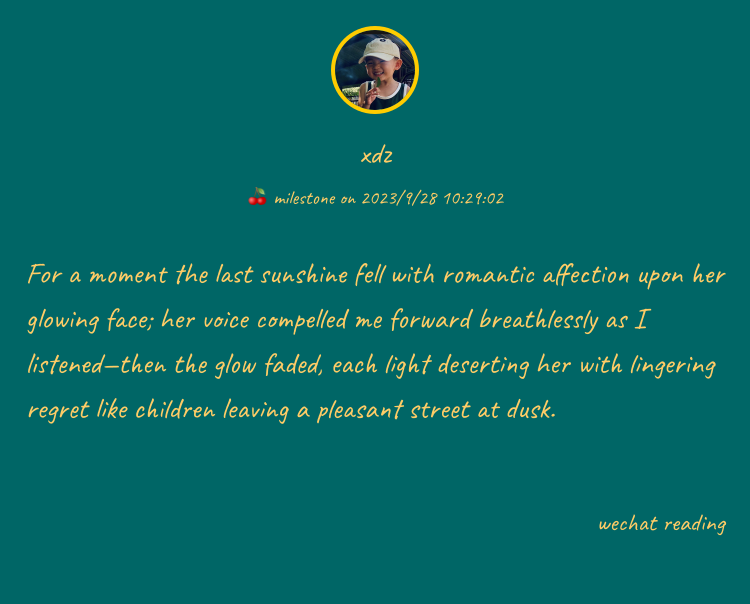
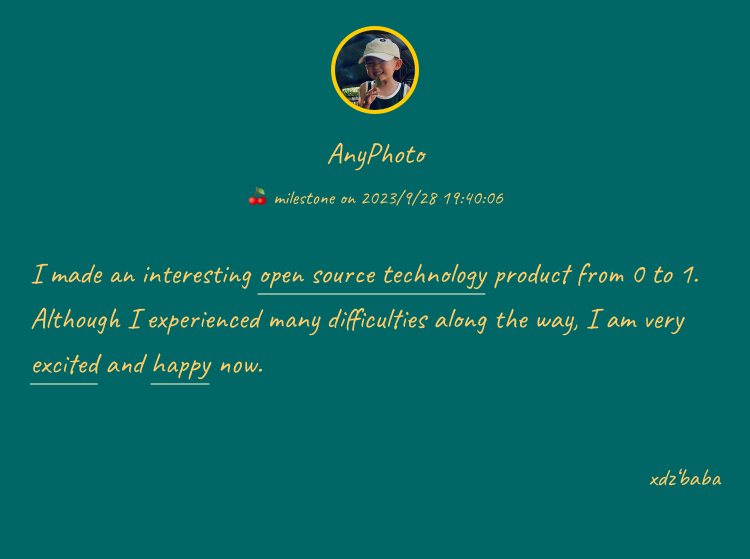
feat(milestone): i’m glad that the underlining function has been implemented

diff --git a/src/underlineCpu.js b/src/underlineCpu.js
@@ -1,0 +1,132 @@
+const { colorTip } = require('./util')
+class UnderLineCpu {
+  constructor({
+    lineKeywordIdentifier,
+    lineContent,
+    ctx,
+    x,
+    y,
+    headerHeight,
+    fontStyle,
+    textAlign,
+    textBaseline,
+    fontSize,
+    lineGap
+  }) {
+    this.lineKeywordIdentifier = lineKeywordIdentifier
+    this.lineContent = lineContent
+    this.ctx = ctx
+    this.x = x
+    this.y = y
+    this.fontStyle = fontStyle
+    this.textAlign = textAlign
+    this.textBaseline = textBaseline
+    this.headerHeight = headerHeight
+    this.fontSize = fontSize
+    this.lineGap = lineGap
+  }
+
+  get getLineUnderlinePositionsIndex() {
+    let identifierNumber = 0
+    let identifiers = []
+    for (const lineIdentifier of Object.values(this.lineKeywordIdentifier)) {
+      identifierNumber += lineIdentifier.length
+      identifiers = [...identifiers, ...lineIdentifier]
+    }
+    if (identifierNumber % 2 !== 0) {
+      colorTip(
+        '请设置正确的划线标识符，确保你提供的文案中，{与}是成对出现的且顺序不可反，否则你就是在为难我',
+        'yellow',
+        'bold'
+      )
+      return {
+        shouldUnderline: false
+      }
+    } else {
+      const lineUnderlineIndex = {}
+      let finishUnderline = true
+      for (const [line, lineIdentifiers] of Object.entries(this.lineKeywordIdentifier)) {
+        lineUnderlineIndex[line] = []
+        if (lineIdentifiers.length !== 0) {
+          for (let i = 0; i < lineIdentifiers.length; i++) {
+            const identifier = lineIdentifiers[i]
+            const nextIdentifier = lineIdentifiers[i + 1]
+            if (identifier.key === 'startIdentifier') {
+              // 当其中的项目的key为splitStartIdentifier时，代表要往这一行中推入一个范围，起点为当前index,终点为下一个项目的index,如果没有，那么就是100
+              const position = { content: identifier.content, underlineStart: identifier.index }
+              if (nextIdentifier) {
+                position.underlineEnd = nextIdentifier.index
+                finishUnderline = true
+              } else {
+                position.underlineEnd = Infinity
+                finishUnderline = false
+              }
+              lineUnderlineIndex[line].push(position)
+            }
+            if (identifier.key === 'endIdentifier' && identifier === lineIdentifiers[0]) {
+              const position = { content: identifier.content, underlineStart: 0 }
+              position.underlineEnd = identifier.index
+              finishUnderline = true
+              lineUnderlineIndex[line].push(position)
+            }
+          }
+        } else {
+          // 这一行没有标记，但是要看strokeEnd是不是为true,如果不为true,则代表上一行最后一个标识符是{(也就是没有闭合)
+          !finishUnderline &&
+            lineUnderlineIndex[line].push({
+              underlineStart: 0,
+              underlineEnd: Infinity,
+              content: this.lineContent[line]
+            })
+        }
+      }
+      return {
+        shouldUnderline: true,
+        lineUnderlineIndex
+      }
+    }
+  }
+
+  getLineUnderlinePositions(lineUnderlineIndex) {
+    const { ctx, x, headerHeight, y, fontSize, lineGap } = this
+    // console.log(lineUnderlineIndex)
+    ctx.font = this.fontStyle
+    ctx.textBaseline = this.textBaseline
+    ctx.textAlign = this.textAlign
+    const underlinePositions = []
+    for (const [line, lineUnderlinePositions] of Object.entries(lineUnderlineIndex)) {
+      if (lineUnderlinePositions.length === 0) continue
+      for (const { content, underlineStart, underlineEnd } of lineUnderlinePositions) {
+        const underlineStartPointX = x + ctx.measureText(content.slice(0, underlineStart).replace(/[{}]/g, '')).width
+        const underlineStartPointY = headerHeight + y + (fontSize + lineGap) * line + fontSize + 10
+        const underlineEndPointX = x + ctx.measureText(content.slice(0, underlineEnd).replace(/[{}]/g, '')).width
+        const underlineEndPointY = underlineStartPointY
+        underlinePositions.push({ underlineStartPointX, underlineStartPointY, underlineEndPointX, underlineEndPointY })
+      }
+    }
+    return underlinePositions
+  }
+
+  underlineKeyWord() {
+    const { ctx } = this
+    const { shouldUnderline, lineUnderlineIndex } = this.getLineUnderlinePositionsIndex
+    if (shouldUnderline) {
+      const underlinePositions = this.getLineUnderlinePositions(lineUnderlineIndex)
+      for (const {
+        underlineStartPointX,
+        underlineStartPointY,
+        underlineEndPointX,
+        underlineEndPointY
+      } of underlinePositions) {
+        ctx.beginPath()
+        ctx.strokeStyle = '#FFFFCC'
+        ctx.lineWidth = '1'
+        ctx.moveTo(underlineStartPointX, underlineStartPointY)
+        ctx.lineTo(underlineEndPointX, underlineEndPointY)
+        ctx.stroke()
+      }
+    }
+  }
+}
+
+module.exports = UnderLineCpu

diff --git a/src/draw.js b/src/draw.js
@@ -2,6 +2,7 @@ const { createCanvas, registerFont, loadImage } = require('canvas')
 const { barWatcher, formatDateTime } = require('./util')
 const HeaderCpu = require('./headerCpu')
 const FooterCpu = require('./footerCpu')
+const UnderLineCpu = require('./underlineCpu')
 const base64Img = require('base64-img')
 
 class Drawer {
@@ -50,6 +51,8 @@ class Drawer {
     this.canvas = createCanvas(this.width, 1)
     this.ctx = this.canvas.getContext('2d')
     this.lineWidthMap = new Map()
+    this.lineKeywordIdentifier = {}
+    this.lineContent = {}
     this.totalLineNumber = this.calculateContentTotalLine
     this.compareHeight = 0
     const maxLineWidth = this.getMaxLineWidth
@@ -192,13 +195,14 @@ class Drawer {
     let currentLine = 0
     let idx = 1
     while (words.length > 0 && idx <= words.length) {
-      const str = words.slice(0, idx).join(' ')
+      const str = words.slice(0, idx).join(' ').replace(/[{}]/g, '')
       const w = ctx.measureText(str).width
       if (w > this.maxLineWidth) {
         if (idx === 1) {
           idx = 2
         }
         this.setLineWidthMap(currentLine, ctx.measureText(words.slice(0, idx - 1).join(' ')).width)
+        this.setLineKeywordIdentifier(currentLine, words.slice(0, idx - 1).join(' '))
         currentLine++
         words = words.splice(idx - 1)
         idx = 1
@@ -207,6 +211,7 @@ class Drawer {
       }
     }
     this.setLineWidthMap(currentLine, ctx.measureText(words.join(' ')).width)
+    this.setLineKeywordIdentifier(currentLine, words.join(' '))
     return currentLine + 1
   }
 
@@ -231,14 +236,17 @@ class Drawer {
     let currentLine = 0
     let idx = 1
     while (words.length > 0 && idx <= words.length) {
-      const str = words.slice(0, idx).join(' ')
+      const str = words.slice(0, idx).join(' ').replace(/[{}]/g, '')
       const w = ctx.measureText(str).width
       if (w > this.maxLineWidth) {
         if (idx === 1) {
           idx = 2
         }
         ctx.fillText(
-          words.slice(0, idx - 1).join(' '),
+          words
+            .slice(0, idx - 1)
+            .join(' ')
+            .replace(/[{}]/g, ''),
           this.x,
           this.headerHeight + this.y + (this.fontSize + this.lineGap) * currentLine
         )
@@ -250,7 +258,11 @@ class Drawer {
       }
     }
     if (idx > 0) {
-      ctx.fillText(words.join(' '), this.x, this.headerHeight + this.y + (this.fontSize + this.lineGap) * currentLine)
+      ctx.fillText(
+        words.join(' ').replace(/[{}]/g, ''),
+        this.x,
+        this.headerHeight + this.y + (this.fontSize + this.lineGap) * currentLine
+      )
     }
     return this
   }
@@ -374,6 +386,25 @@ class Drawer {
 
   setLineWidthMap(line, width) {
     this.lineWidthMap.set(line + 1, width)
+  }
+
+  setLineKeywordIdentifier(line, content) {
+    this.lineContent[line] = content
+    const identifierPositions = []
+    let index = content.indexOf('{')
+    if (index === -1) {
+      index = content.indexOf('}')
+    }
+    while (index !== -1) {
+      if (content[index] === '{') {
+        identifierPositions.push({ key: 'startIdentifier', index, content })
+        index = content.indexOf('}', index + 1)
+      } else if (content[index] === '}') {
+        identifierPositions.push({ key: 'endIdentifier', index, content })
+        index = content.indexOf('{', index + 1)
+      }
+    }
+    this.lineKeywordIdentifier[line] = identifierPositions
   }
 
   setSuitableXWidth(maxLineWidth, targetWidth, x) {
@@ -573,6 +604,31 @@ class Drawer {
     ctx.restore()
     return this
   }
+
+  async drawUnderline() {
+    const { lineKeywordIdentifier, lineContent } = this
+    let allLineKeywordIdentifier = []
+    // eslint-disable-next-line no-unused-vars
+    for (const [line, keywordIdentifier] of Object.entries(lineKeywordIdentifier)) {
+      allLineKeywordIdentifier = [...allLineKeywordIdentifier, ...keywordIdentifier]
+    }
+    if (allLineKeywordIdentifier.length === 0) return this
+    const underlineCpu = new UnderLineCpu({
+      lineKeywordIdentifier,
+      lineContent,
+      ctx: this.ctx,
+      x: this.x,
+      y: this.y,
+      headerHeight: this.headerHeight,
+      fontStyle: this.setupFont(this.fontWeight, this.fontSize, this.fontFamilyIndex),
+      textAlign: this.textAlign,
+      textBaseline: this.textBaseline,
+      fontSize: this.fontSize,
+      lineGap: this.lineGap
+    })
+    underlineCpu.underlineKeyWord()
+    return this
+  }
 }
 
 const draw = ({ content, anyPhotoConfig }) => {
@@ -585,6 +641,7 @@ const draw = ({ content, anyPhotoConfig }) => {
     .then(drawer => drawer.drawAuthor())
     .then(drawer => drawer.drawTime())
     .then(drawer => drawer.drawContent())
+    .then(drawer => drawer.drawUnderline())
     .then(drawer => drawer.drawFrom())
     .then(drawer => drawer.drawDivider())
     .then(drawer => drawer.drawFooter())

diff --git a/bin/index.js b/bin/index.js
@@ -32,8 +32,22 @@ program
     'The name of the photo, which will be combined with the current time by default'
   )
   .action((content, options) => {
+    // // const testContent1 =
+    // //   'For a moment the {last sunshine fell with} romantic affection upon her glowing face her voice compelled me forward breathlessly as I listened—then the glow faded, each light deserting her with lingering regret like children leaving a pleasant street at dusk.'
+    // // const testContent2 =
+    //   'For a moment the {last sunshine fell with} romantic {affection upon her glowing face} her voice compelled me forward breathlessly as I listened—then the glow faded, each light deserting her with lingering regret like children leaving a pleasant street at dusk.'
+    // const testContent3 =
+    //   'For a moment the {last sunshine fell with romantic affection upon her glowing face her voice compelled me forward breathlessly as I listened—then the glow faded, each light deserting her with lingering regret like children leaving} a pleasant street at dusk.'
+    // const testContent4 =
+    //   'For a {moment} the last sunshine fell with romantic affection {upon} her glowing face her voice {compelled} me forward breathlessly as I listened—then the glow faded, each light deserting her with lingering regret like {children leaving} a pleasant street at dusk.'
+    // const testContent5 =
+    //   '{For} a moment the last sunshine fell with romantic affection upon her {glowing} face her voice compelled me forward breathlessly as I {listened—then} the glow faded, each light deserting her with lingering {regret} like children leaving a pleasant street at dusk.'
+    const testContent6 =
+      'I made an interesting {open source technology} product from 0 to 1. Although I experienced many difficulties along the way, I am very {excited} and {happy} now.'
+    // const testContent7 =
+    //   'For a moment the last sunshine fell with romantic affection upon her glowing face her voice compelled me forward breathlessly as I listened—then the glow faded, each light deserting her with lingering regret like children leaving a pleasant street at dusk.'
     generate({
-      content,
+      content: testContent6,
       options
     })
   })

diff --git a/anyphoto.config.js b/anyphoto.config.js
@@ -48,7 +48,7 @@ const anyPhotoConfig = {
     },
     footer: {
       paddingY: 60,
-      slogan: 'wechat reading',
+      slogan: 'xdz‘baba',
       sloganPosition: 'right',
       sloganFontSize: 25,
       sloganFontColor: '#FFCC66',
